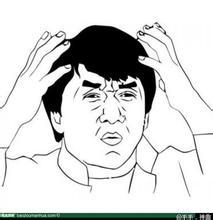
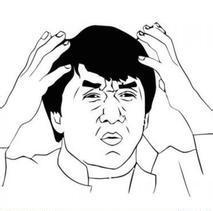
nothing happen

Changed region(s): [[0.0, 0.0853, 1.0, 1.0]]

diff --git a/README.md b/README.md
@@ -31,7 +31,7 @@ cat file | sed /^\*$/d | sed s/\!// \
   | while read -r file; do cp $file ./dotfiles/; done
 ```
 
-<img width="213" height="220" src="wtf.jpg">
+<img width="213" height="211" src="wtf.jpg">
 
 WTF?
 
